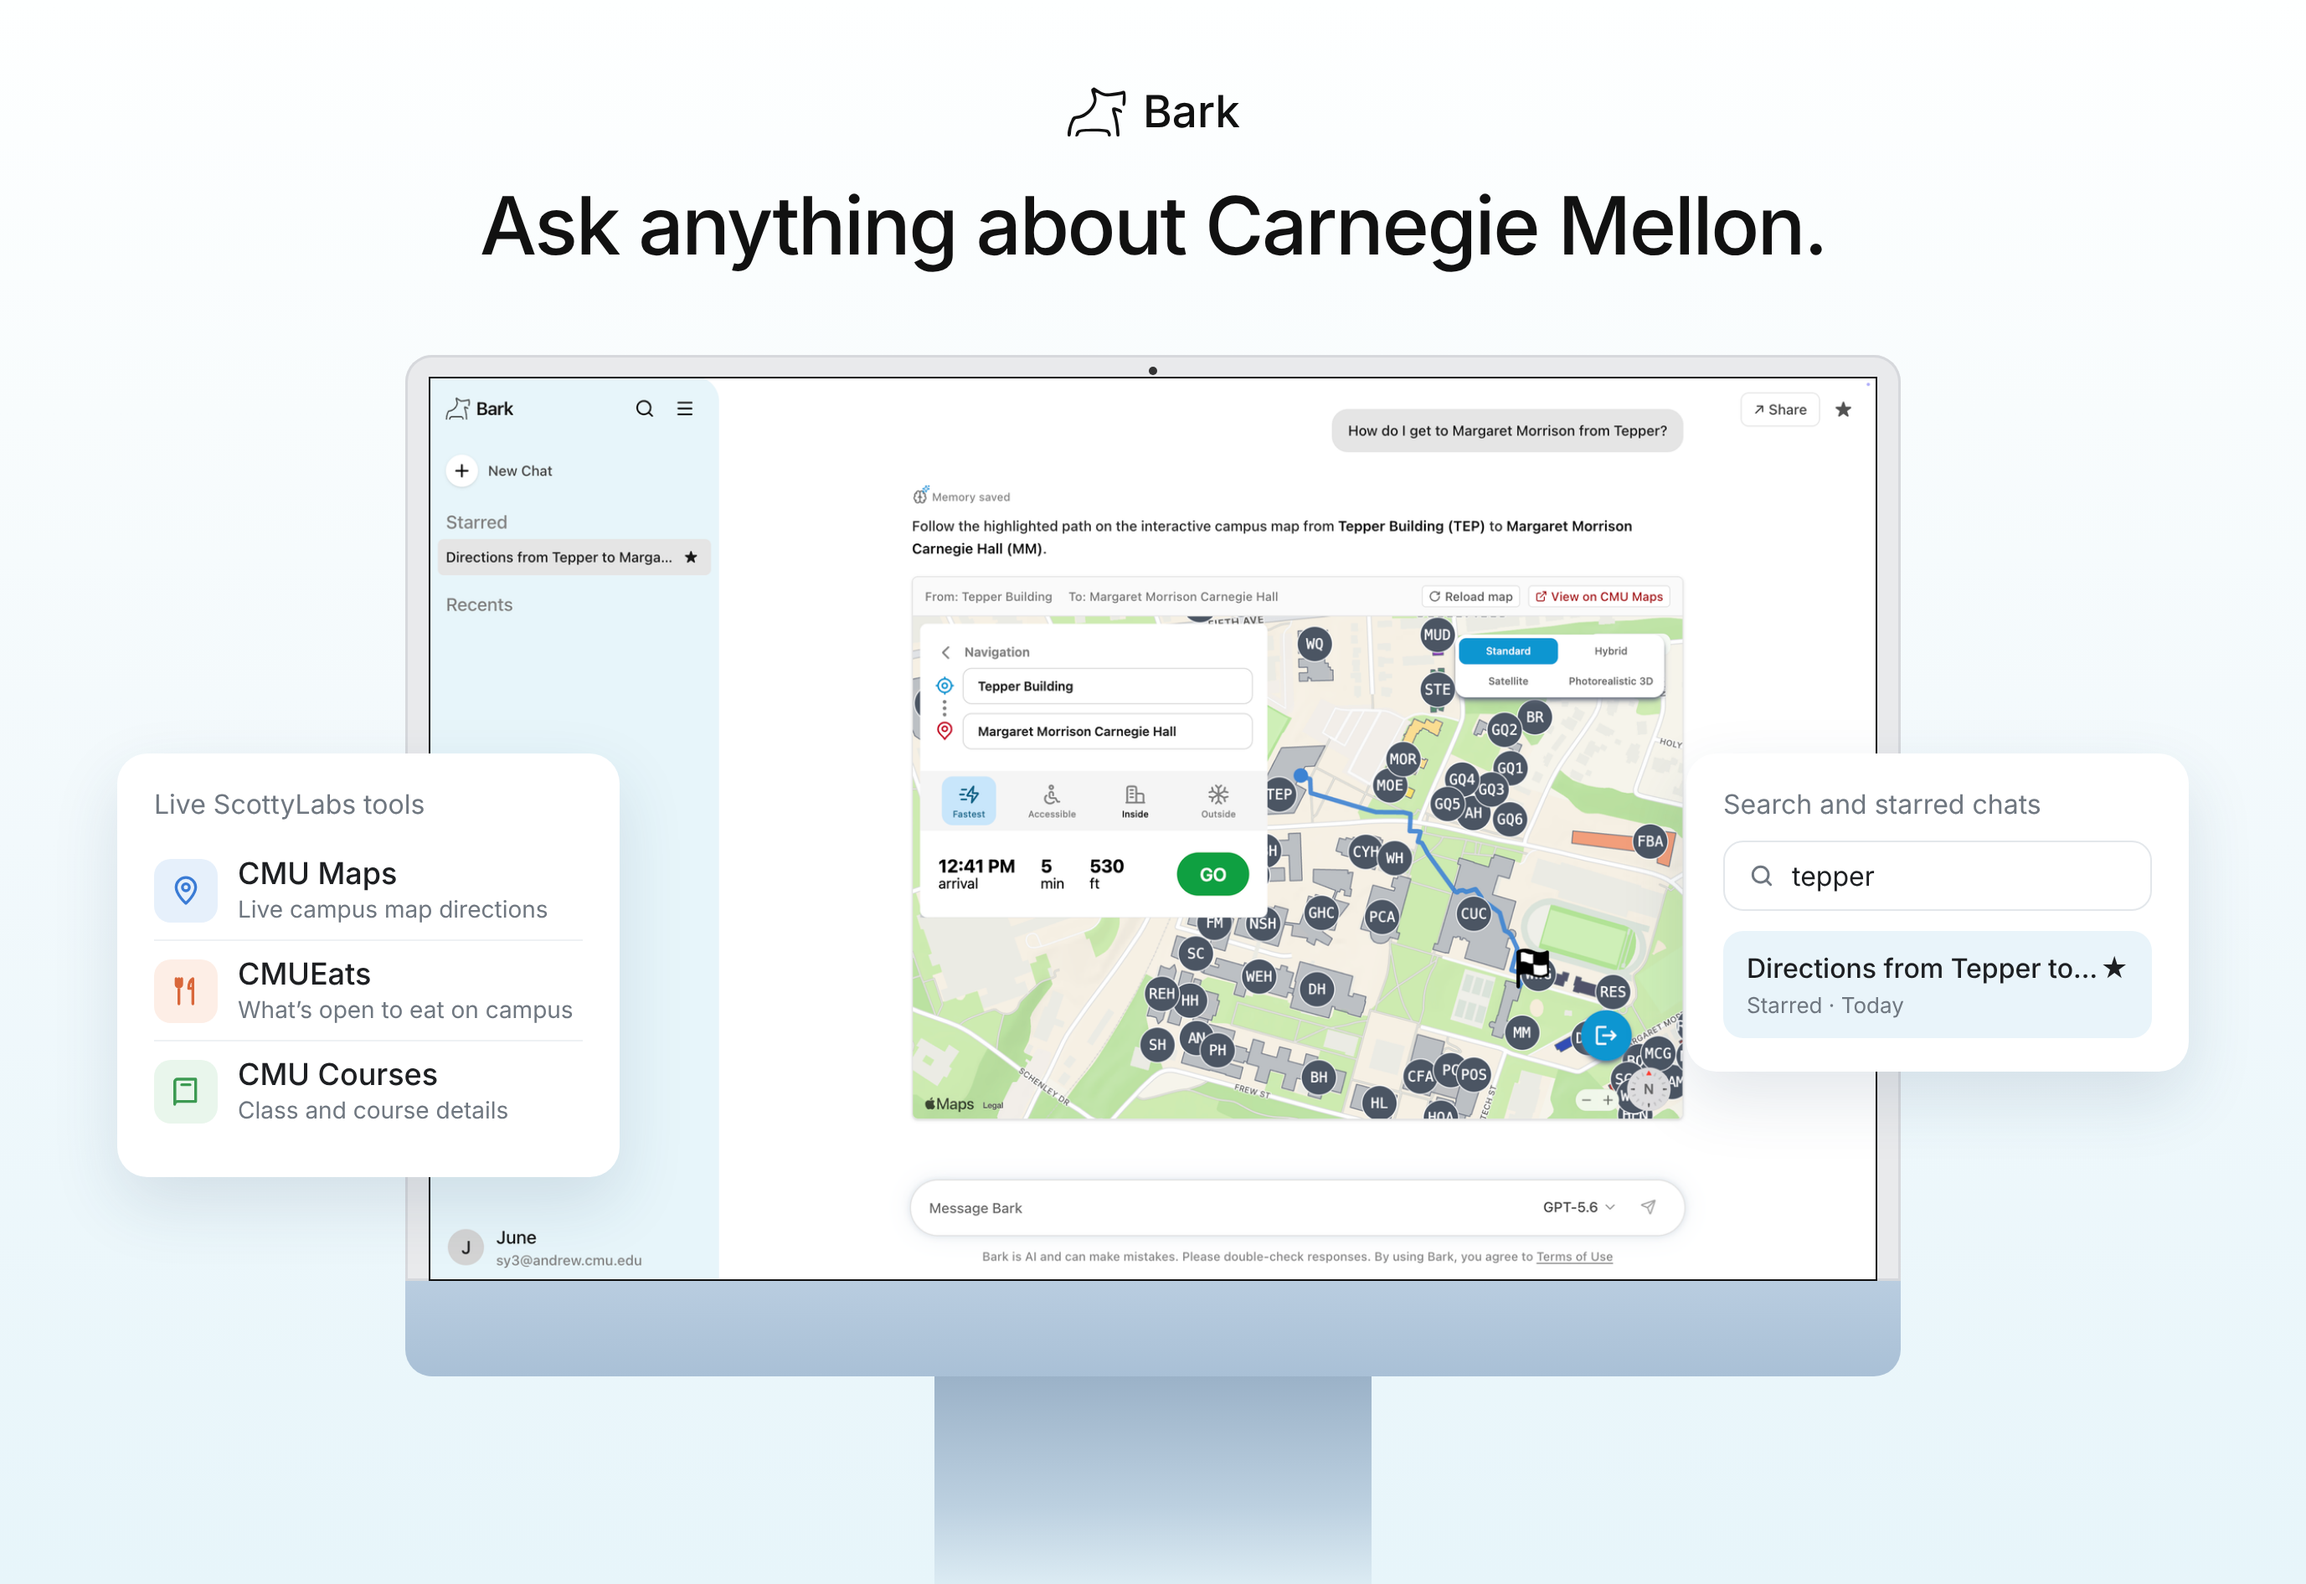
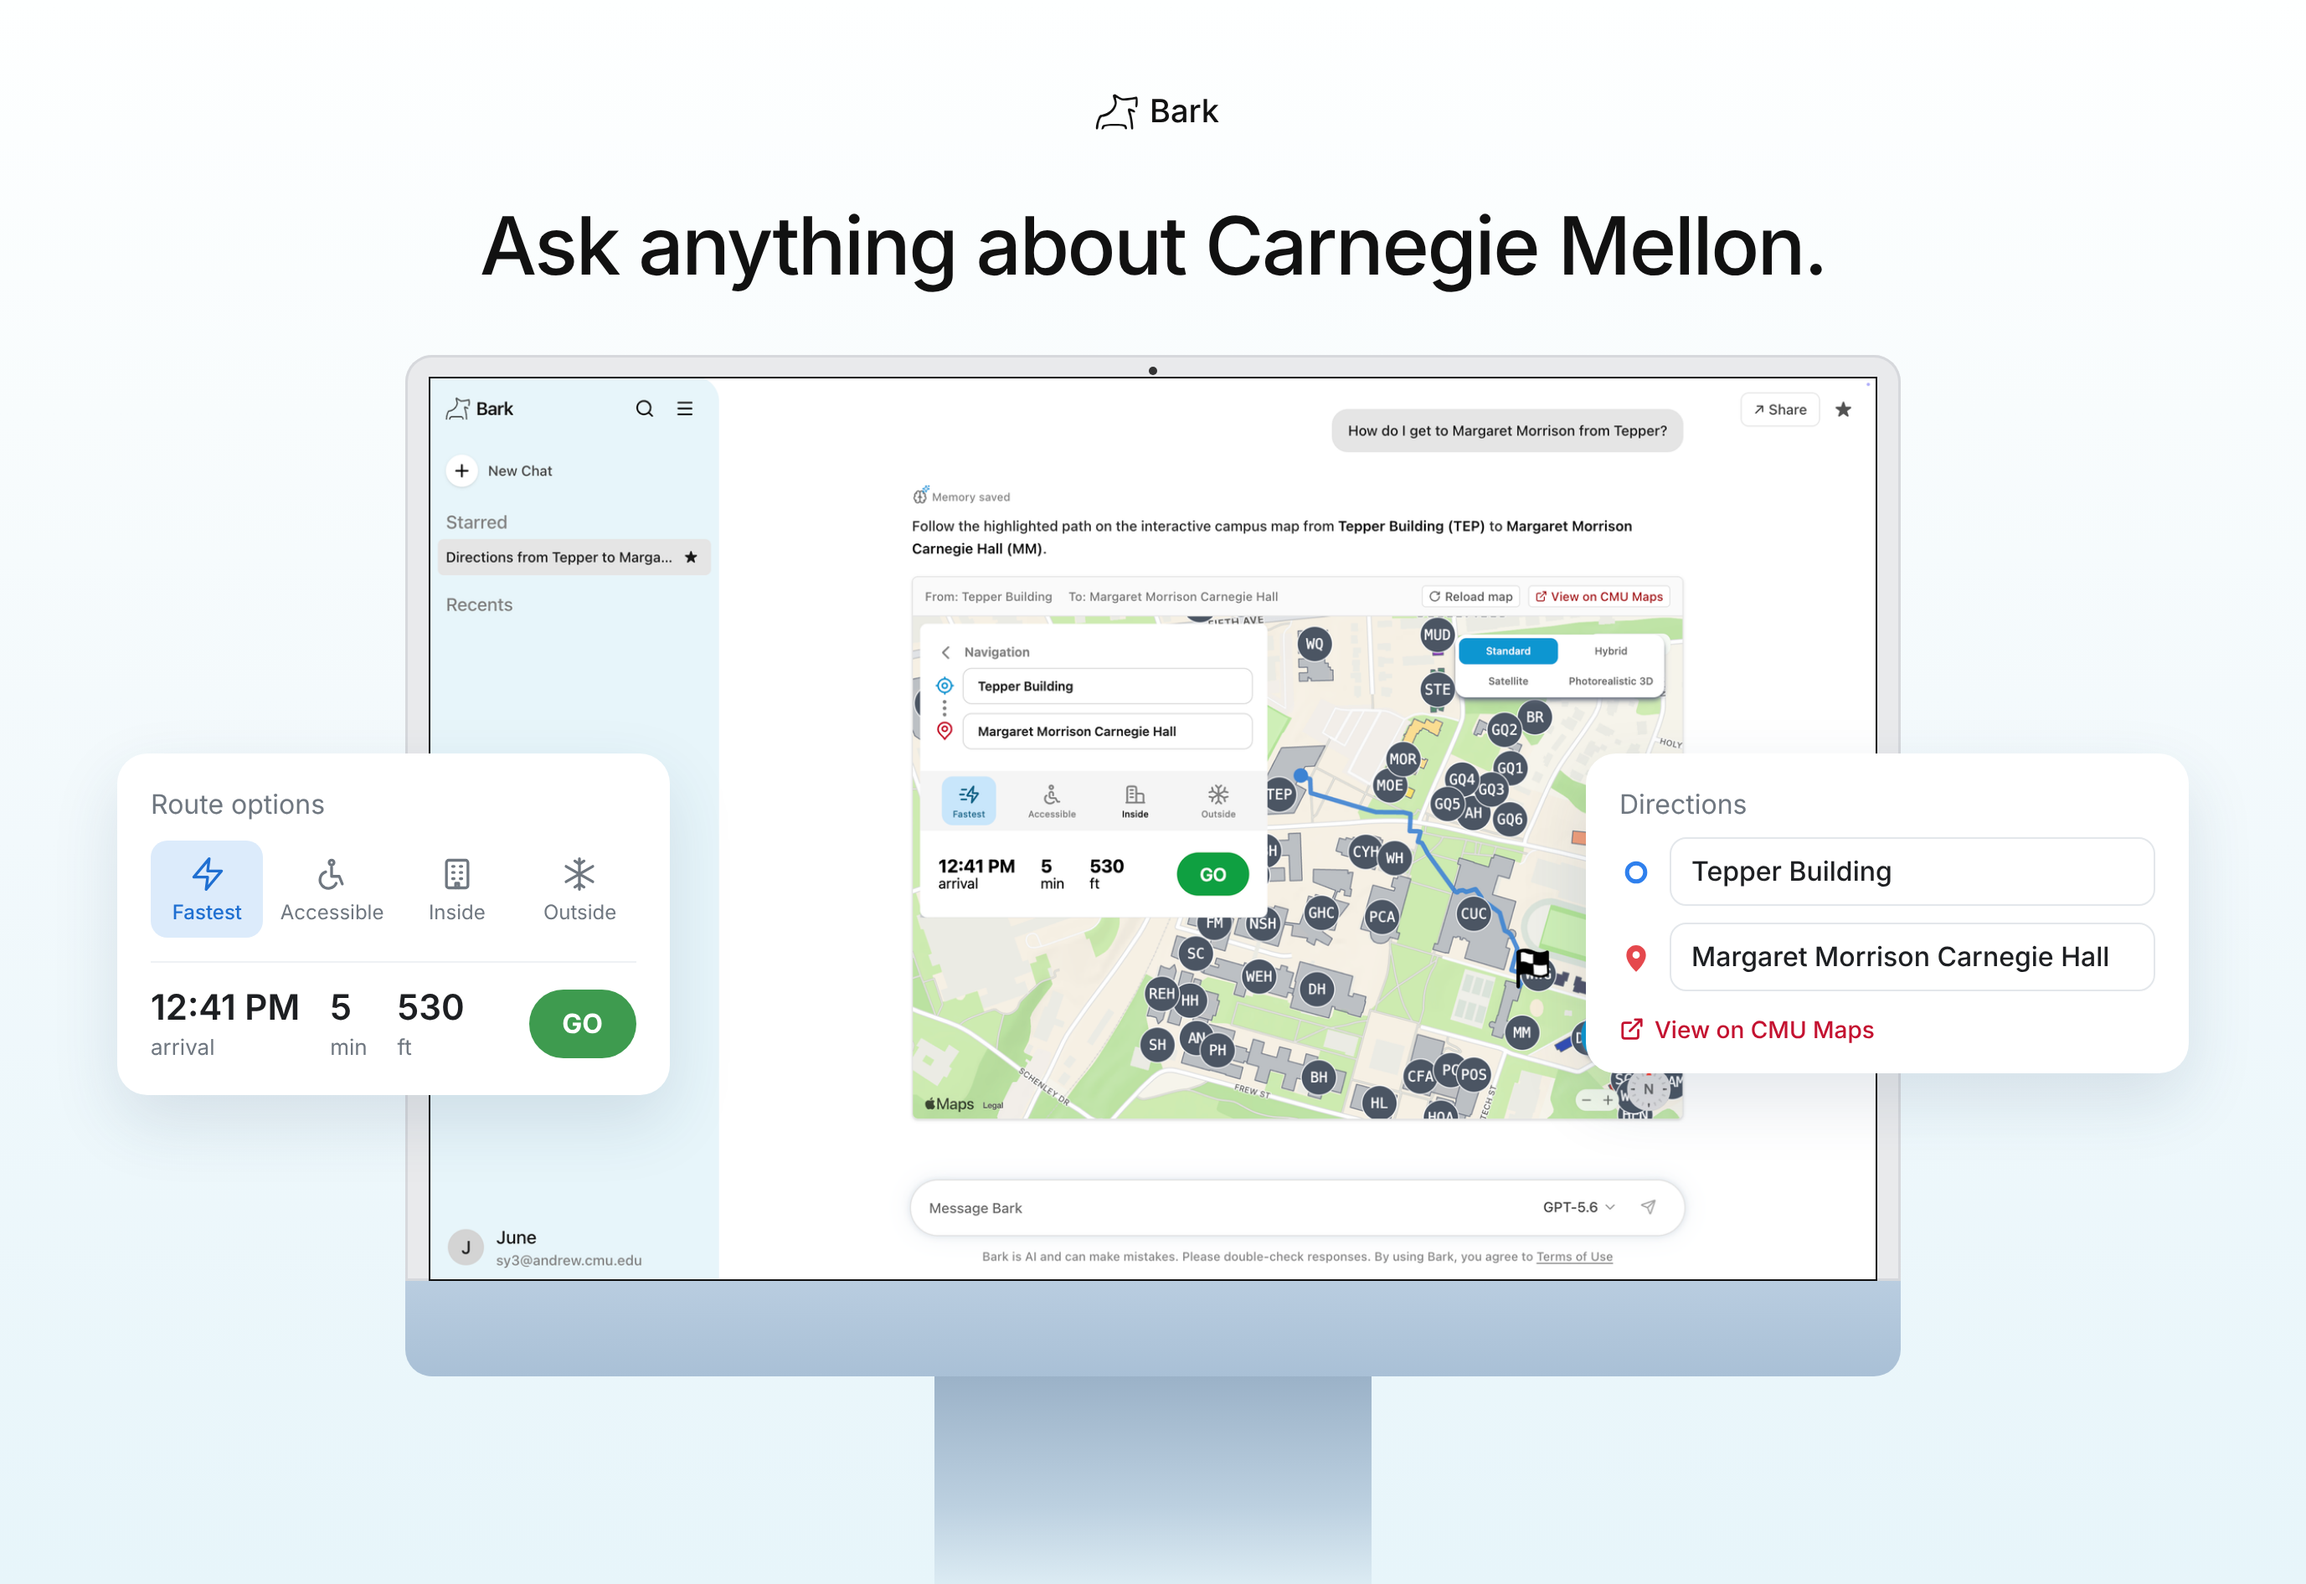
Home: Bark nav cards, Instagram-style Arencia profile, latest Figma layouts (#17)
Bark cards now show the app's real navigation features (route options with
arrival time and GO, and the from/to directions with View on CMU Maps).
Arencia gets an Instagram-style profile card (422K followers), frameless
views and likes with icons, and phones that fade out at the top and bottom.
Arencia and Na Kim follow the latest Figma layouts.

Claude-Session: https://claude.ai/code/session_01PJkMotC6Nz8qWguHKxjy1y

diff --git a/index.html b/index.html
@@ -50,8 +50,8 @@
 
       <a class="project" href="cmugpt-site/index.html">
         <div class="project__media project__media--cmugpt">
-          <img src="cmugpt-site/images/cover.png?v=5" width="1377" height="946"
-            alt="Bark cover: 'Ask anything about Carnegie Mellon.' above an iMac showing a Bark answer with an interactive CMU Maps route, with cards for the live ScottyLabs tools (CMU Maps, CMUEats, CMU Courses) and chat search with a starred chat">
+          <img src="cmugpt-site/images/cover.png?v=6" width="1377" height="946"
+            alt="Bark cover: 'Ask anything about Carnegie Mellon.' above an iMac showing a Bark answer with an interactive CMU Maps route, with a route options card (Fastest, Accessible, Inside, Outside; 12:41 PM arrival, 5 min, 530 ft) and a directions card from Tepper Building to Margaret Morrison Carnegie Hall">
           <video class="project__hover" data-src="cmugpt-site/images/hover.mp4?v=2" muted playsinline loop preload="none" aria-hidden="true"></video>
         </div>
         <h2 class="project__title">Bark</h2>
@@ -60,8 +60,8 @@
 
       <a class="project" href="arencia-site/index.html">
         <div class="project__media project__media--arencia">
-          <img src="arencia-site/images/cover.jpg?v=9" width="1377" height="946"
-            alt="Arencia cover: the Arencia logo and 'a social media rebranding for the Olive Young x Sephora launch' beside two tilted phones, one showing the rebranded Instagram grid and the other the Booster Shot passport video, with the @arencia_global profile card (387K followers) and campaign results: 320K+ views, 12.5K+ likes, +11% profile visits and +16% search interest">
+          <img src="arencia-site/images/cover.jpg?v=10" width="1377" height="946"
+            alt="Arencia cover: the @arencia_global Instagram profile (273 posts, 422K followers) with 320K+ views and 12.5K+ likes, two tilted phones showing the rebranded Instagram grid and the Booster Shot video, and the Arencia logo with 'A social media rebranding for the Olive Young x Sephora launch'">
           <video class="project__hover" data-src="arencia-site/images/hover.mp4?v=1" muted playsinline loop preload="none" aria-hidden="true"></video>
         </div>
         <h2 class="project__title">Arencia</h2>
@@ -70,7 +70,7 @@
 
       <a class="project" href="design-hero-site/index.html">
         <div class="project__media project__media--hero">
-          <img src="design-hero-site/images/cover.jpg?v=4" width="1377" height="946"
+          <img src="design-hero-site/images/cover.jpg?v=5" width="1377" height="946"
             alt="Na Kim cover: the title on a cream background above the tilted booklet contents spread and the 'simple form, complex idea' poster">
           <video class="project__hover" data-src="design-hero-site/images/hover.mp4?v=1" muted playsinline loop preload="none" aria-hidden="true"></video>
         </div>
